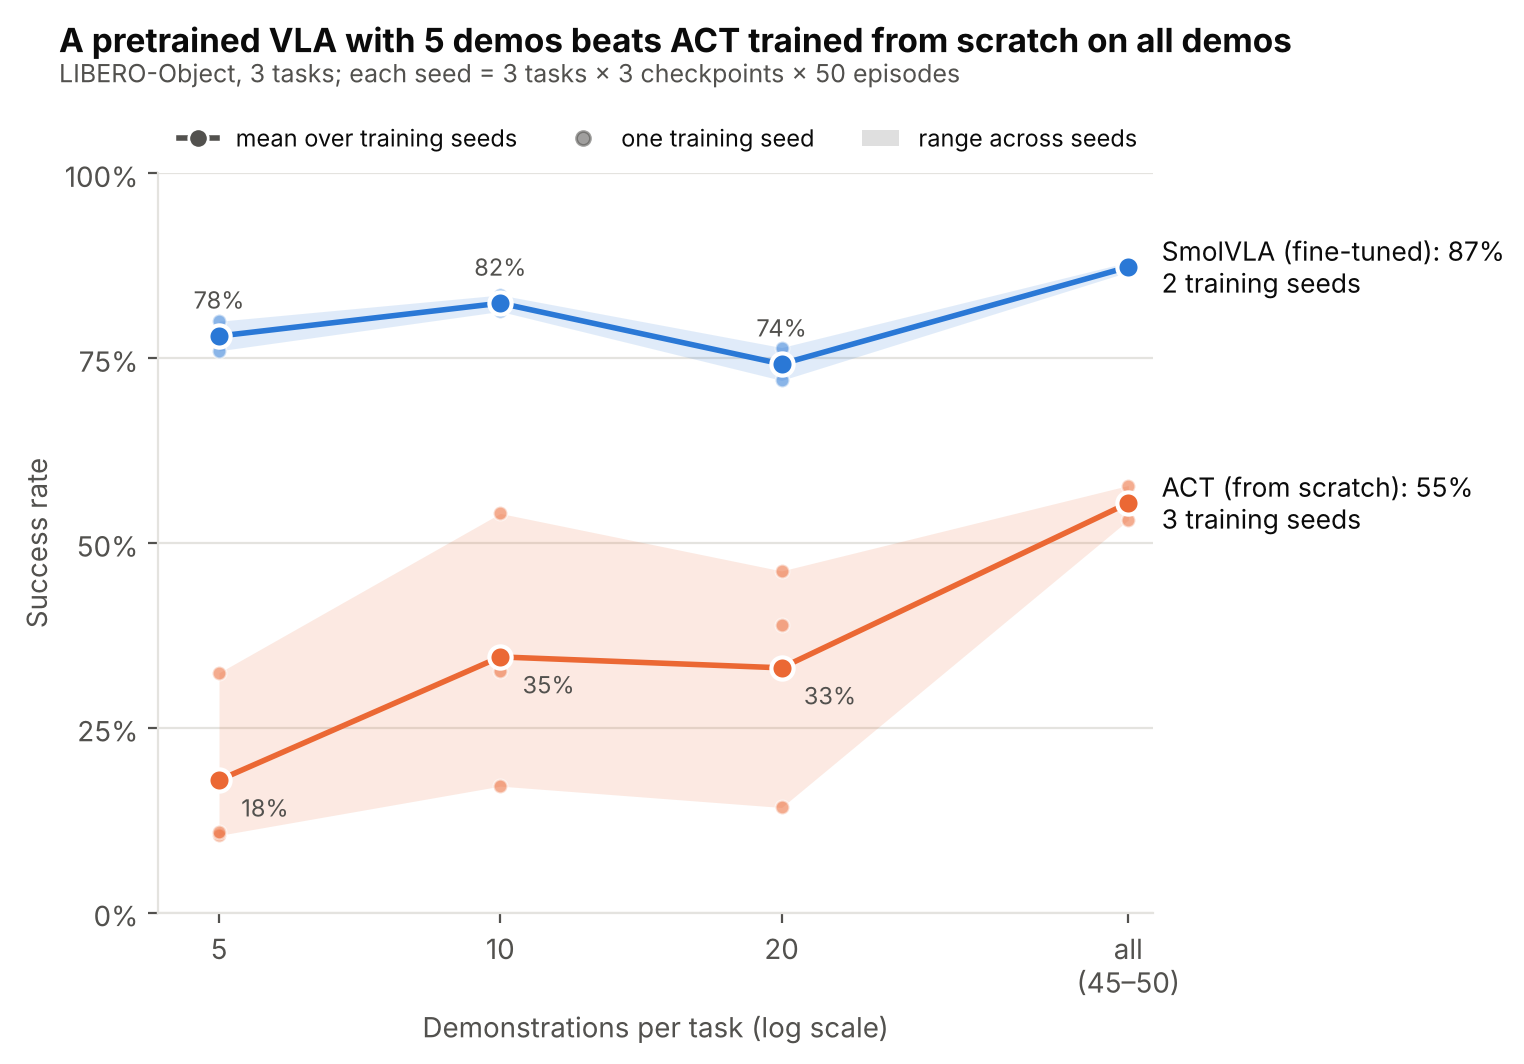
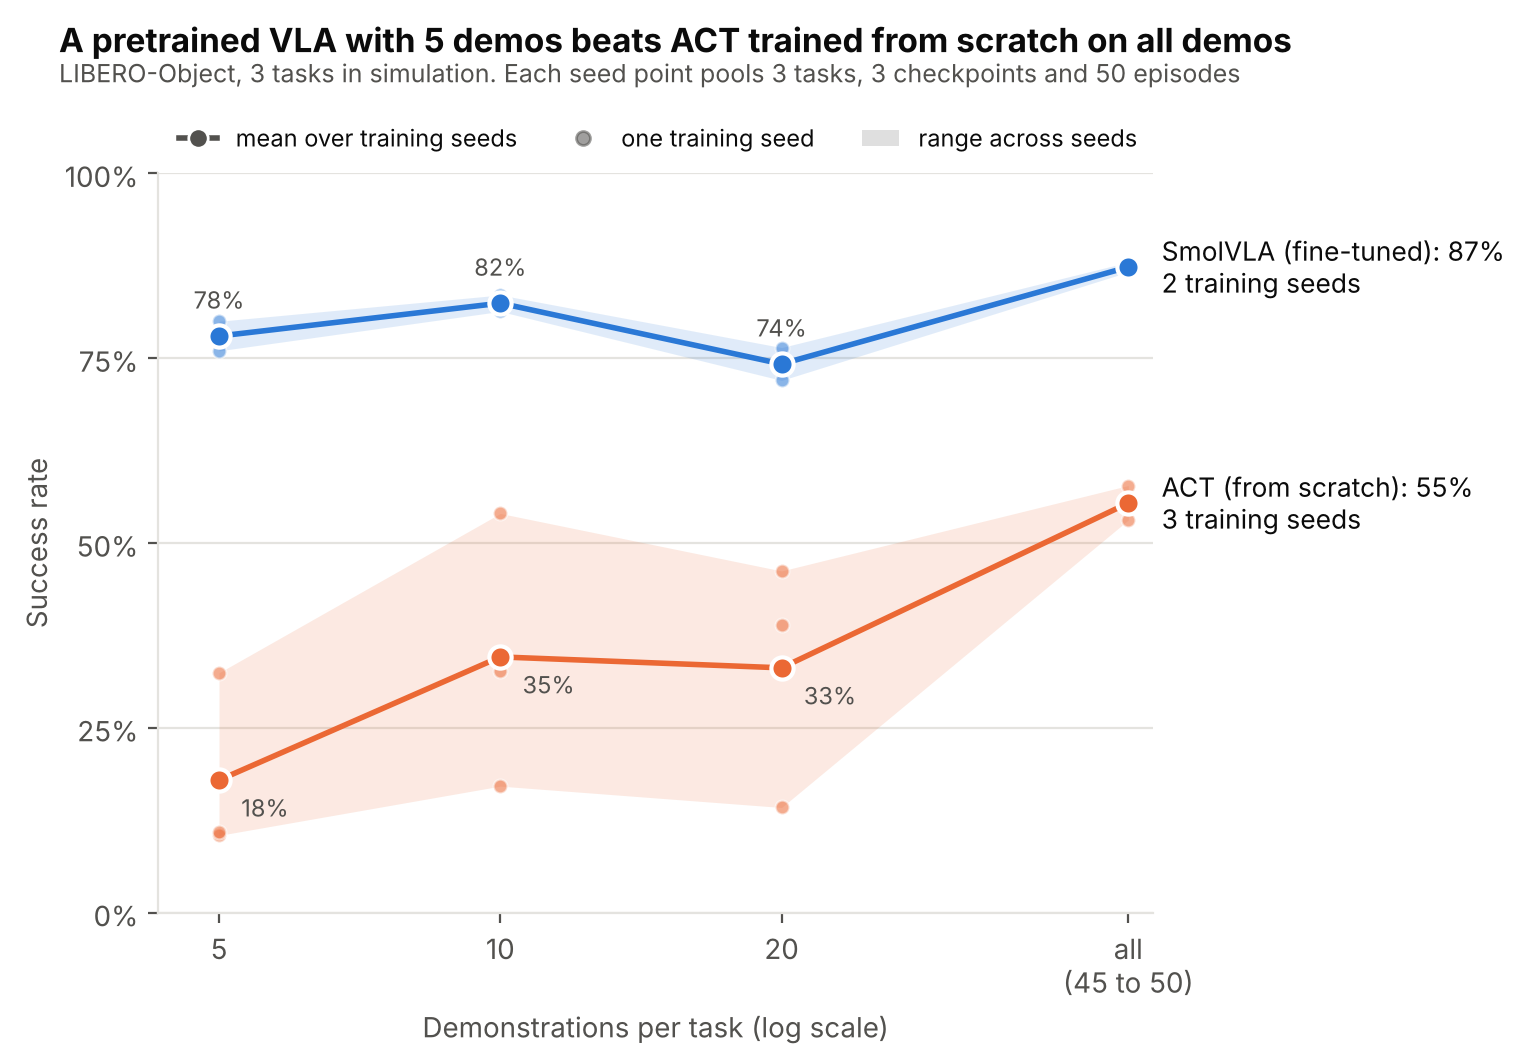
Figures: plain-word labels (no symbols), task titles, Inter font pinned; numbers unchanged

Changed region(s): [[0.2159, 0.062, 0.8018, 0.093], [0.7093, 0.8994, 0.8018, 0.9305]]

diff --git a/scripts/analyze.py b/scripts/analyze.py
@@ -51,6 +51,7 @@ SEEDS = {"act": [1, 2, 3], "smolvla": [1, 2]}  # seed index -> runs.yaml trainin
 SIZES = ["5", "10", "20", "all"]
 TASKS = ["t1", "t2", "t3"]
 TASK_NAME = {"t1": "bbq sauce", "t2": "butter", "t3": "chocolate pudding"}
+TASK_TITLE = {"t1": "BBQ sauce", "t2": "Butter", "t3": "Chocolate pudding"}   # figure titles
 N_EPS = 50
 # Frozen 24 Oct (plan, Phase 3c): pooled success % per seed at 5/10/20/all demos. The script refuses to run if
 # results.csv no longer reproduces them.
@@ -387,6 +388,7 @@ def failures() -> dict | None:
 # --------------------------------------------------------------------------------------------- figures
 def style():
     plt.rcParams.update({
+        "font.family": "sans-serif", "font.sans-serif": ["Inter", "DejaVu Sans"],
         "font.size": 10, "axes.titlesize": 11, "axes.labelsize": 10, "axes.edgecolor": GRID,
         "axes.labelcolor": INK_2, "xtick.color": INK_2, "ytick.color": INK_2, "text.color": INK,
         "axes.spines.top": False, "axes.spines.right": False, "axes.grid": True, "grid.color": GRID,
@@ -427,7 +429,7 @@ def fig_headline(head: pd.DataFrame, n_all_mean: float):
                         fontsize=8.5, color=INK_2)
     ax.set_xscale("log")
     ax.set_xticks([xs[s] for s in SIZES])
-    ax.set_xticklabels(["5", "10", "20", f"all\n(45–50)"])
+    ax.set_xticklabels(["5", "10", "20", f"all\n(45 to 50)"])
     ax.minorticks_off()
     ax.set_xlim(4.3, 50)
     ax.set_ylim(0, 100)
@@ -442,7 +444,7 @@ def fig_headline(head: pd.DataFrame, n_all_mean: float):
     ax.legend(handles=handles, loc="lower left", bbox_to_anchor=(0, 1.0), ncol=3, fontsize=8.5, handlelength=1.6)
     fig.suptitle("A pretrained VLA with 5 demos beats ACT trained from scratch on all demos",
                  x=0.06, ha="left", y=1.04, fontsize=12, fontweight="bold")
-    fig.text(0.06, 0.975, "LIBERO-Object, 3 tasks; each seed = 3 tasks × 3 checkpoints × 50 episodes",
+    fig.text(0.06, 0.975, "LIBERO-Object, 3 tasks in simulation. Each seed point pools 3 tasks, 3 checkpoints and 50 episodes",
              ha="left", fontsize=9, color=INK_2)
     fig.subplots_adjust(right=0.78)
     save(fig, "headline")
@@ -464,7 +466,7 @@ def fig_per_task(pt: pd.DataFrame, n_all: dict):
         ax.minorticks_off()
         ax.grid(axis="x", visible=False)
         ax.set_xlim(4.3, 56)
-        ax.set_title(f"{t} · {TASK_NAME[t]}", loc="left", fontsize=10.5)
+        ax.set_title(TASK_TITLE[t], loc="left", fontsize=10.5)
         ax.set_xlabel("Demonstrations per task")
     axes[0].set_ylim(0, 100)
     axes[0].set_yticks(range(0, 101, 25))
@@ -473,7 +475,7 @@ def fig_per_task(pt: pd.DataFrame, n_all: dict):
     handles = [Line2D([], [], color=COLOR[m], lw=2, marker="o", ms=6, mec=SURFACE, label=f"{METHOD_LABEL[m]}, mean")
                for m in METHODS] + [Line2D([], [], color=INK_2, lw=1, alpha=0.5, label="individual training seeds")]
     fig.legend(handles=handles, loc="lower left", bbox_to_anchor=(0.06, 0.93), ncol=3, fontsize=9)
-    fig.suptitle("Per task: ACT struggles most on butter; SmolVLA's curves are not monotonic",
+    fig.suptitle("Per task: ACT does worst on butter, and SmolVLA dips at 10 or 20 demos on two tasks",
                  x=0.06, ha="left", y=1.06, fontsize=12, fontweight="bold")
     fig.subplots_adjust(left=0.07, right=0.98, top=0.86, bottom=0.17, wspace=0.08)
     save(fig, "per_task")
@@ -495,7 +497,7 @@ def fig_stability(runs: pd.DataFrame, summ: pd.DataFrame):
         if gi % 4 == 0 and gi:
             ax.axvline(base - gap / 2 + 0.25, color=GRID, lw=1)
     for ti, t in enumerate(TASKS):
-        ax.text(ti * 4 * gap + 1.5 * gap + 2.25, -17, f"{t} · {TASK_NAME[t]}", ha="center", fontsize=10, color=INK)
+        ax.text(ti * 4 * gap + 1.5 * gap + 2.25, -17, TASK_TITLE[t], ha="center", fontsize=10, color=INK)
     ax.set_xticks(xt)
     ax.set_xticklabels(xl)
     ax.grid(axis="x", visible=False)
@@ -507,13 +509,13 @@ def fig_stability(runs: pd.DataFrame, summ: pd.DataFrame):
     ax.set_xlabel("Demonstrations per task, grouped by task", labelpad=28)
     sm = summ.set_index("method")
     handles = [Line2D([], [], color=COLOR[m], lw=2.2, marker="o", ms=4.5, mec=SURFACE,
-                      label=f"{METHOD_LABEL[m]}: checkpoint spread {sm.loc[m, 'ckpt_ratio']:.1f}× sampling noise")
+                      label=f"{METHOD_LABEL[m]}: checkpoint variance {sm.loc[m, 'ckpt_ratio']:.1f} times sampling noise")
                for m in ["act", "smolvla"]]
     ax.legend(handles=handles, loc="lower left", bbox_to_anchor=(0, 1.0), ncol=2, fontsize=9)
     fig.suptitle("ACT's checkpoints disagree far beyond sampling noise; SmolVLA's do not",
                  x=0.06, ha="left", y=1.06, fontsize=12, fontweight="bold")
-    fig.text(0.06, 0.975, "Each bar = one training run; its 3 dots = the evaluated checkpoints (50 episodes each). "
-             "In each group: ACT seeds 1–3 left, SmolVLA seeds 1–2 right.", ha="left", fontsize=9, color=INK_2)
+    fig.text(0.06, 0.975, "Each bar is one training run and its 3 dots are the evaluated checkpoints (50 episodes each). "
+             "In each group, ACT seeds 1 to 3 are on the left and SmolVLA seeds 1 and 2 on the right.", ha="left", fontsize=9, color=INK_2)
     save(fig, "stability")
 
 
@@ -522,7 +524,7 @@ def fig_scenes(sc: pd.DataFrame):
     for ax, r in zip(axes, sc.itertuples()):
         ax.plot(100 * r.act_rate, 100 * r.smolvla_rate, "o", color=COLOR["smolvla"], ms=6, alpha=0.75, mec=SURFACE,
                 mew=0.8)
-        ax.set_title(f"{r.task} · {TASK_NAME[r.task]}", loc="left", fontsize=10.5)
+        ax.set_title(TASK_TITLE[r.task], loc="left", fontsize=10.5)
         ax.text(0.03, 0.04, f"Spearman ρ = {r.spearman:.2f}", transform=ax.transAxes, fontsize=9, color=INK_2)
         ax.set_xlabel("ACT success on this scene")
         ax.set_aspect("equal")
